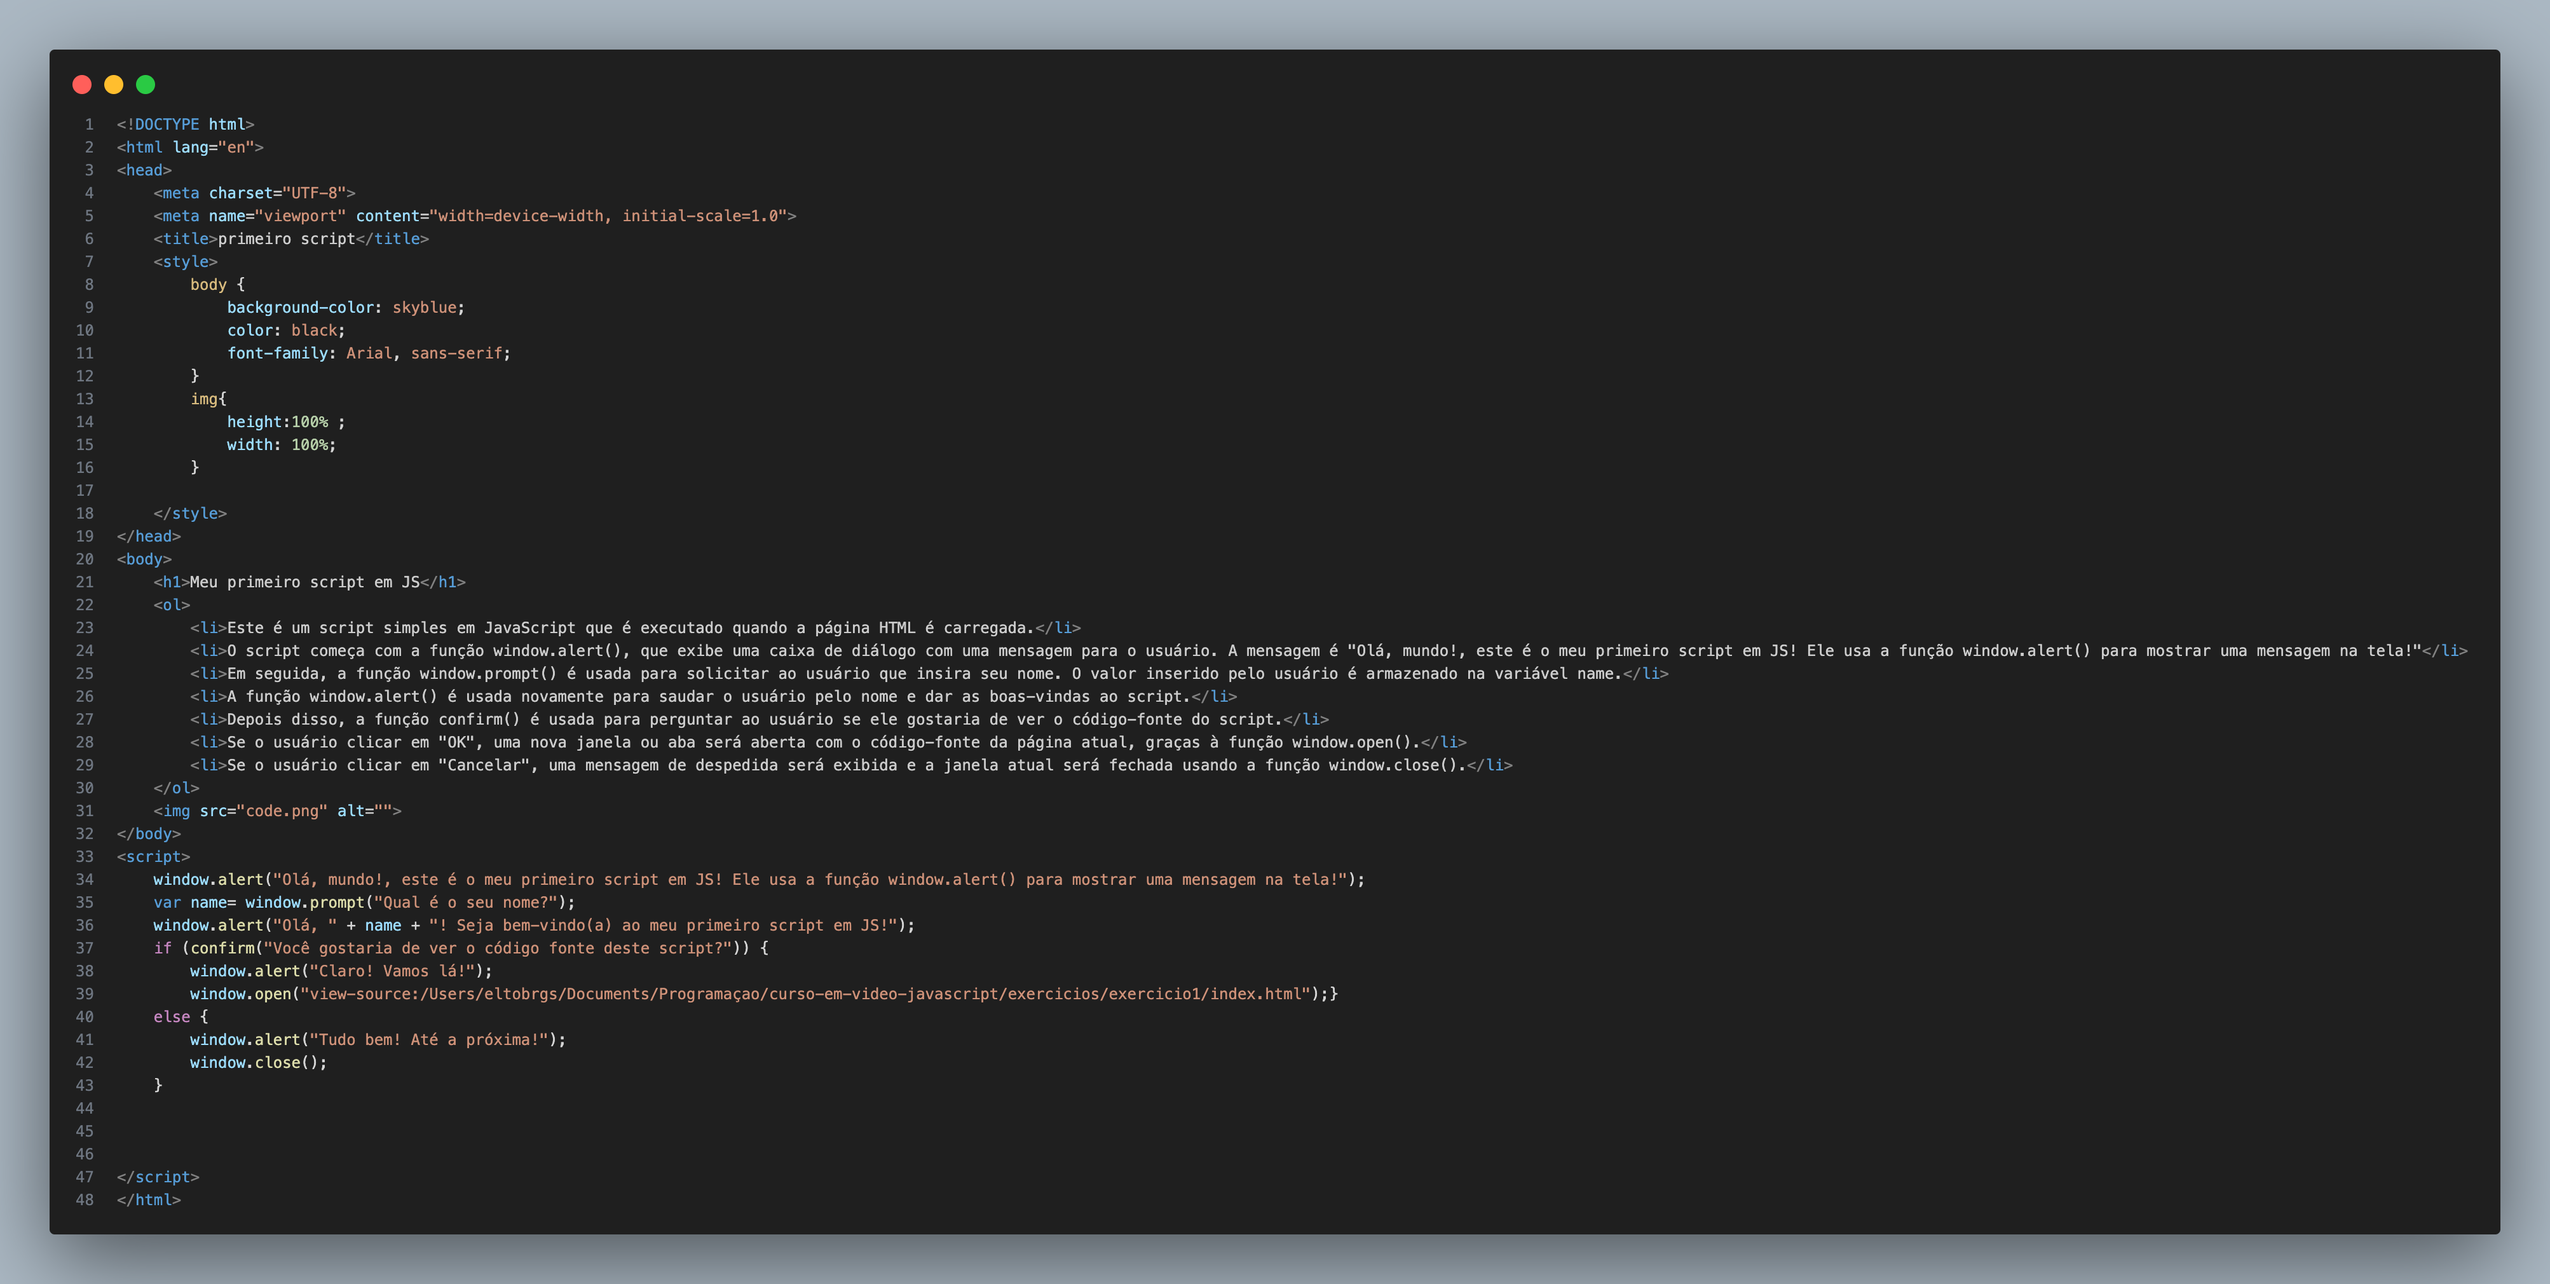
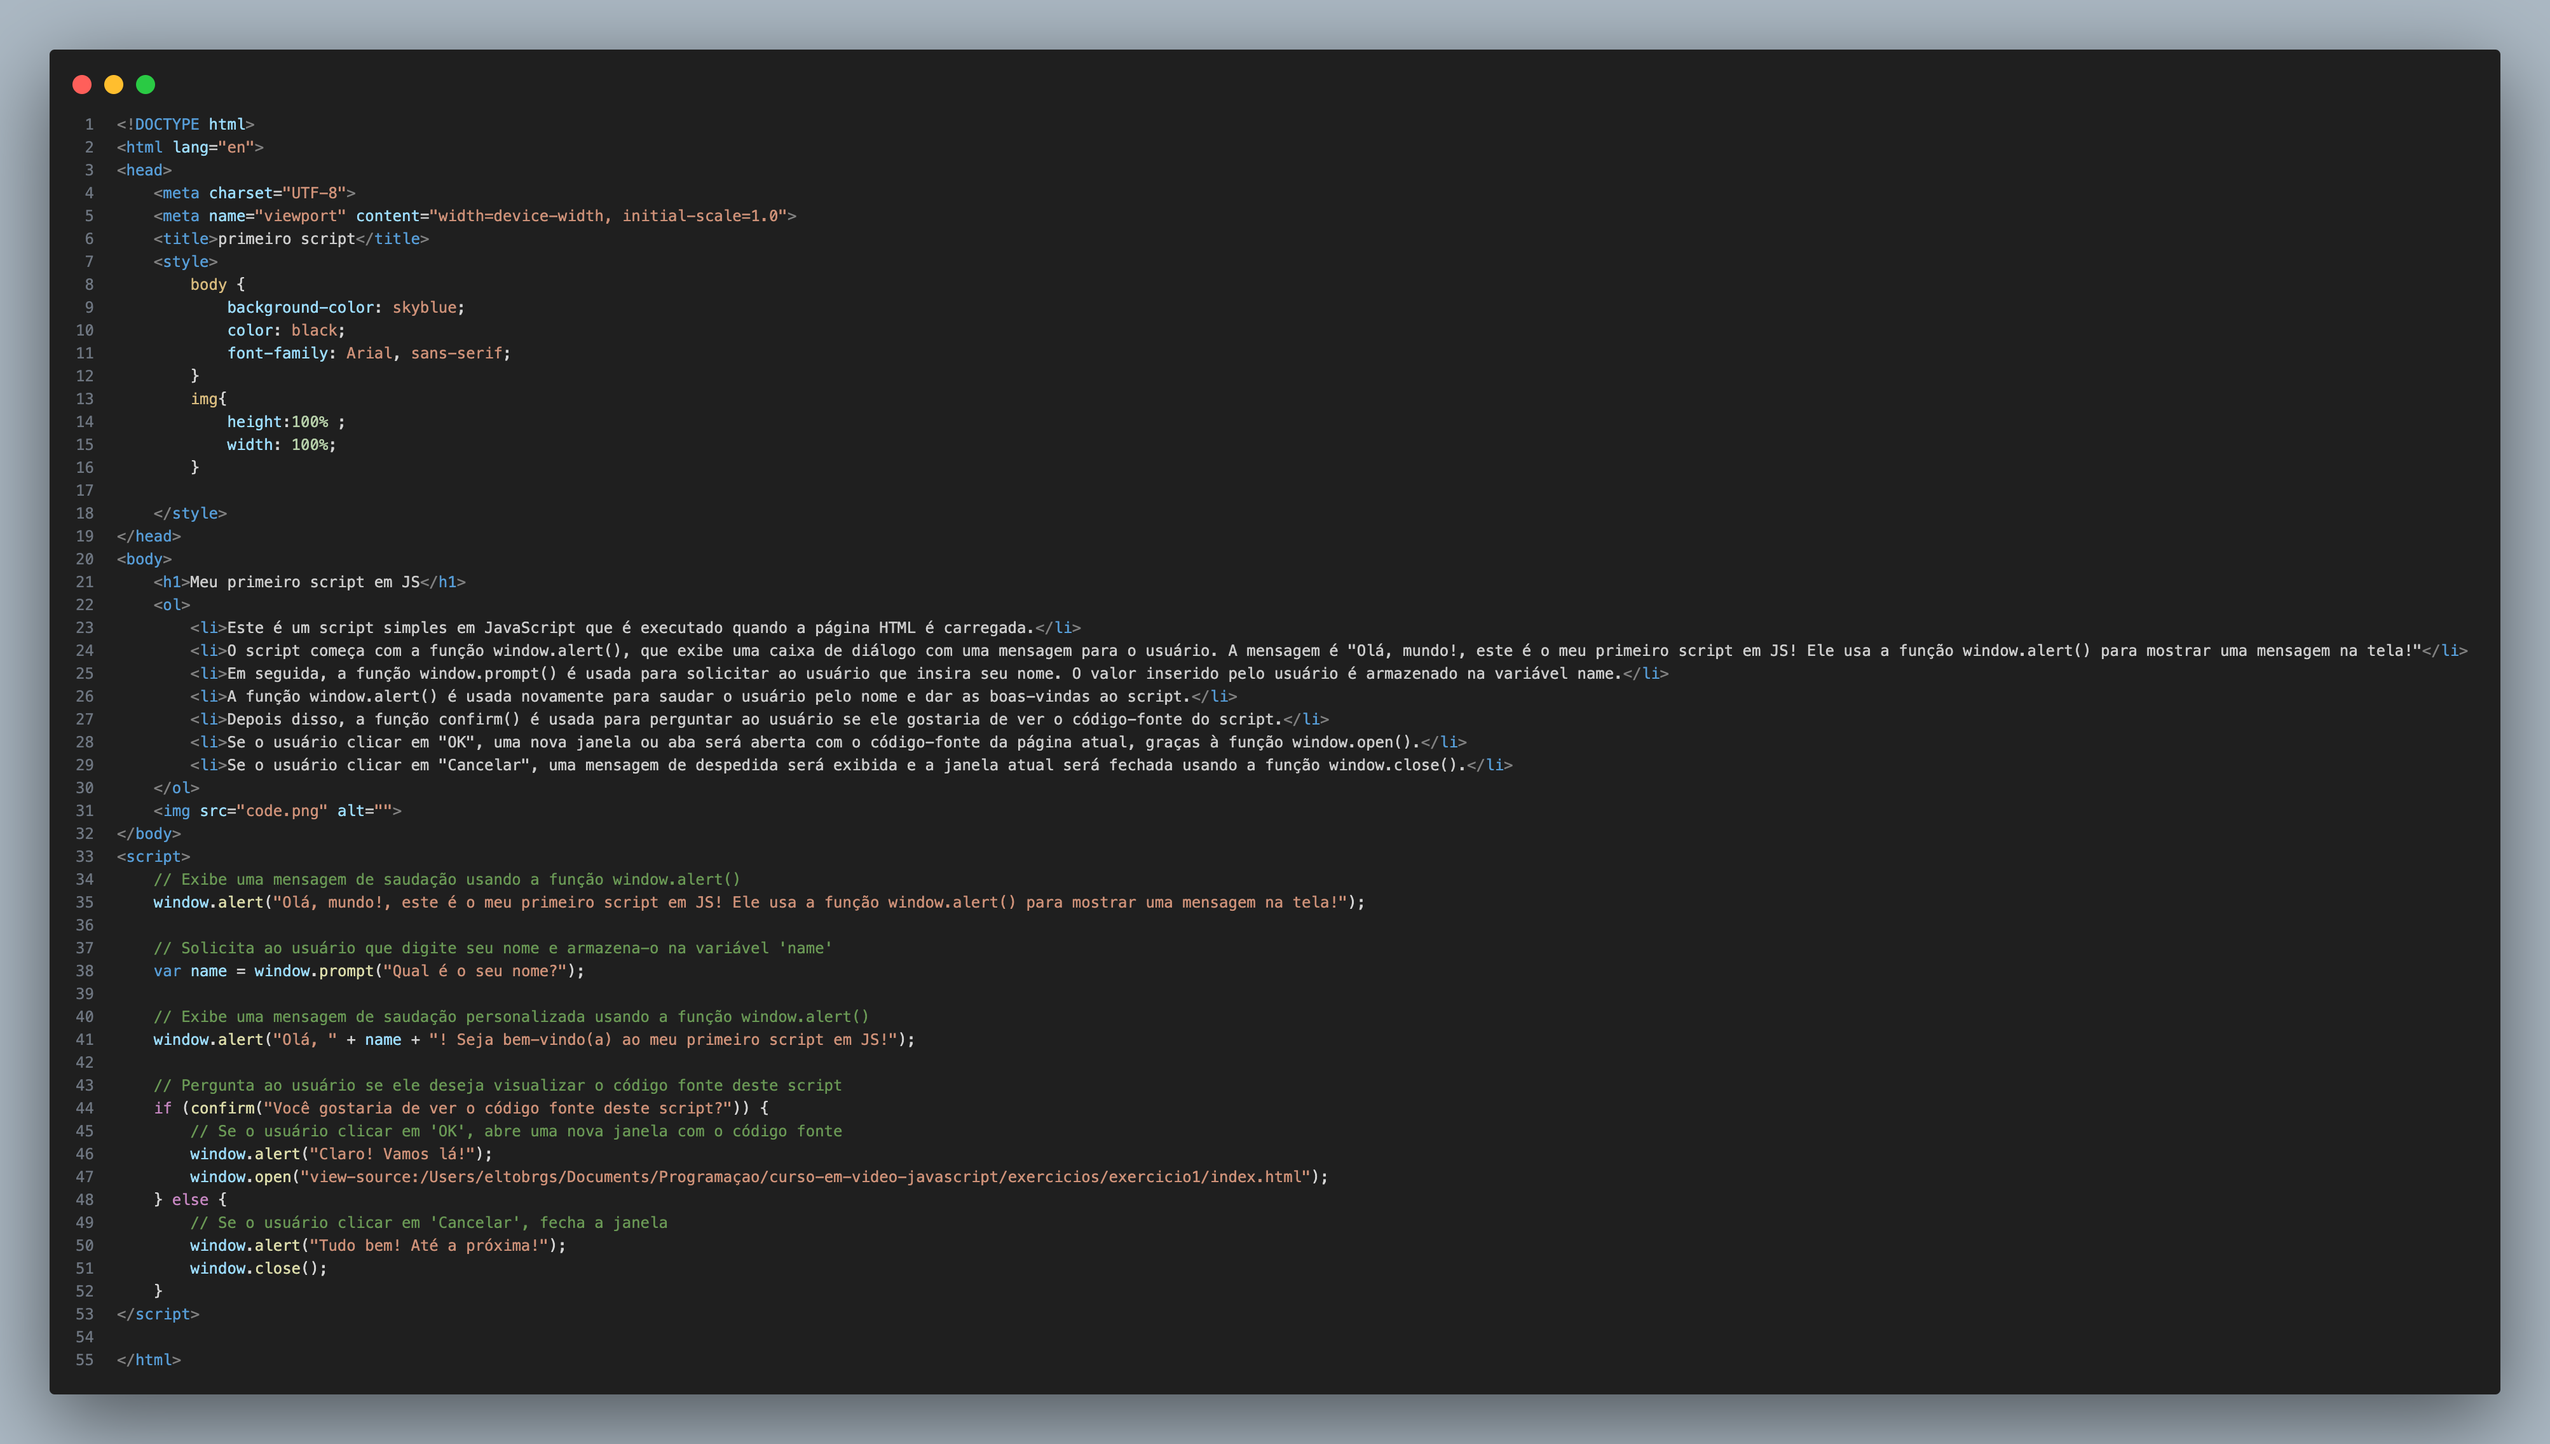
adicionando anotaçoes de python e exercicios

diff --git a/exercicios Modulo A/exercicio1/index.html b/exercicios Modulo A/exercicio1/index.html
@@ -31,20 +31,25 @@
     <img src="code.png" alt="">
 </body>
 <script>
+    // Exibe uma mensagem de saudação usando a função window.alert()
     window.alert("Olá, mundo!, este é o meu primeiro script em JS! Ele usa a função window.alert() para mostrar uma mensagem na tela!");
-    var name= window.prompt("Qual é o seu nome?");
+
+    // Solicita ao usuário que digite seu nome e armazena-o na variável 'name'
+    var name = window.prompt("Qual é o seu nome?");
+
+    // Exibe uma mensagem de saudação personalizada usando a função window.alert()
     window.alert("Olá, " + name + "! Seja bem-vindo(a) ao meu primeiro script em JS!");
-    //se o usuário clicar em ok ele abre a janela com o código fonte
+
+    // Pergunta ao usuário se ele deseja visualizar o código fonte deste script
     if (confirm("Você gostaria de ver o código fonte deste script?")) {
+        // Se o usuário clicar em 'OK', abre uma nova janela com o código fonte
         window.alert("Claro! Vamos lá!");
-        window.open("view-source:/Users/eltobrgs/Documents/Programaçao/curso-em-video-javascript/exercicios/exercicio1/index.html");} 
-    //se o usuário clicar em cancelar ele fecha a janela
-    else {
+        window.open("view-source:/Users/eltobrgs/Documents/Programaçao/curso-em-video-javascript/exercicios/exercicio1/index.html");
+    } else {
+        // Se o usuário clicar em 'Cancelar', fecha a janela
         window.alert("Tudo bem! Até a próxima!");
         window.close();
     }
-
-    
-    
 </script>
+    
 </html>
